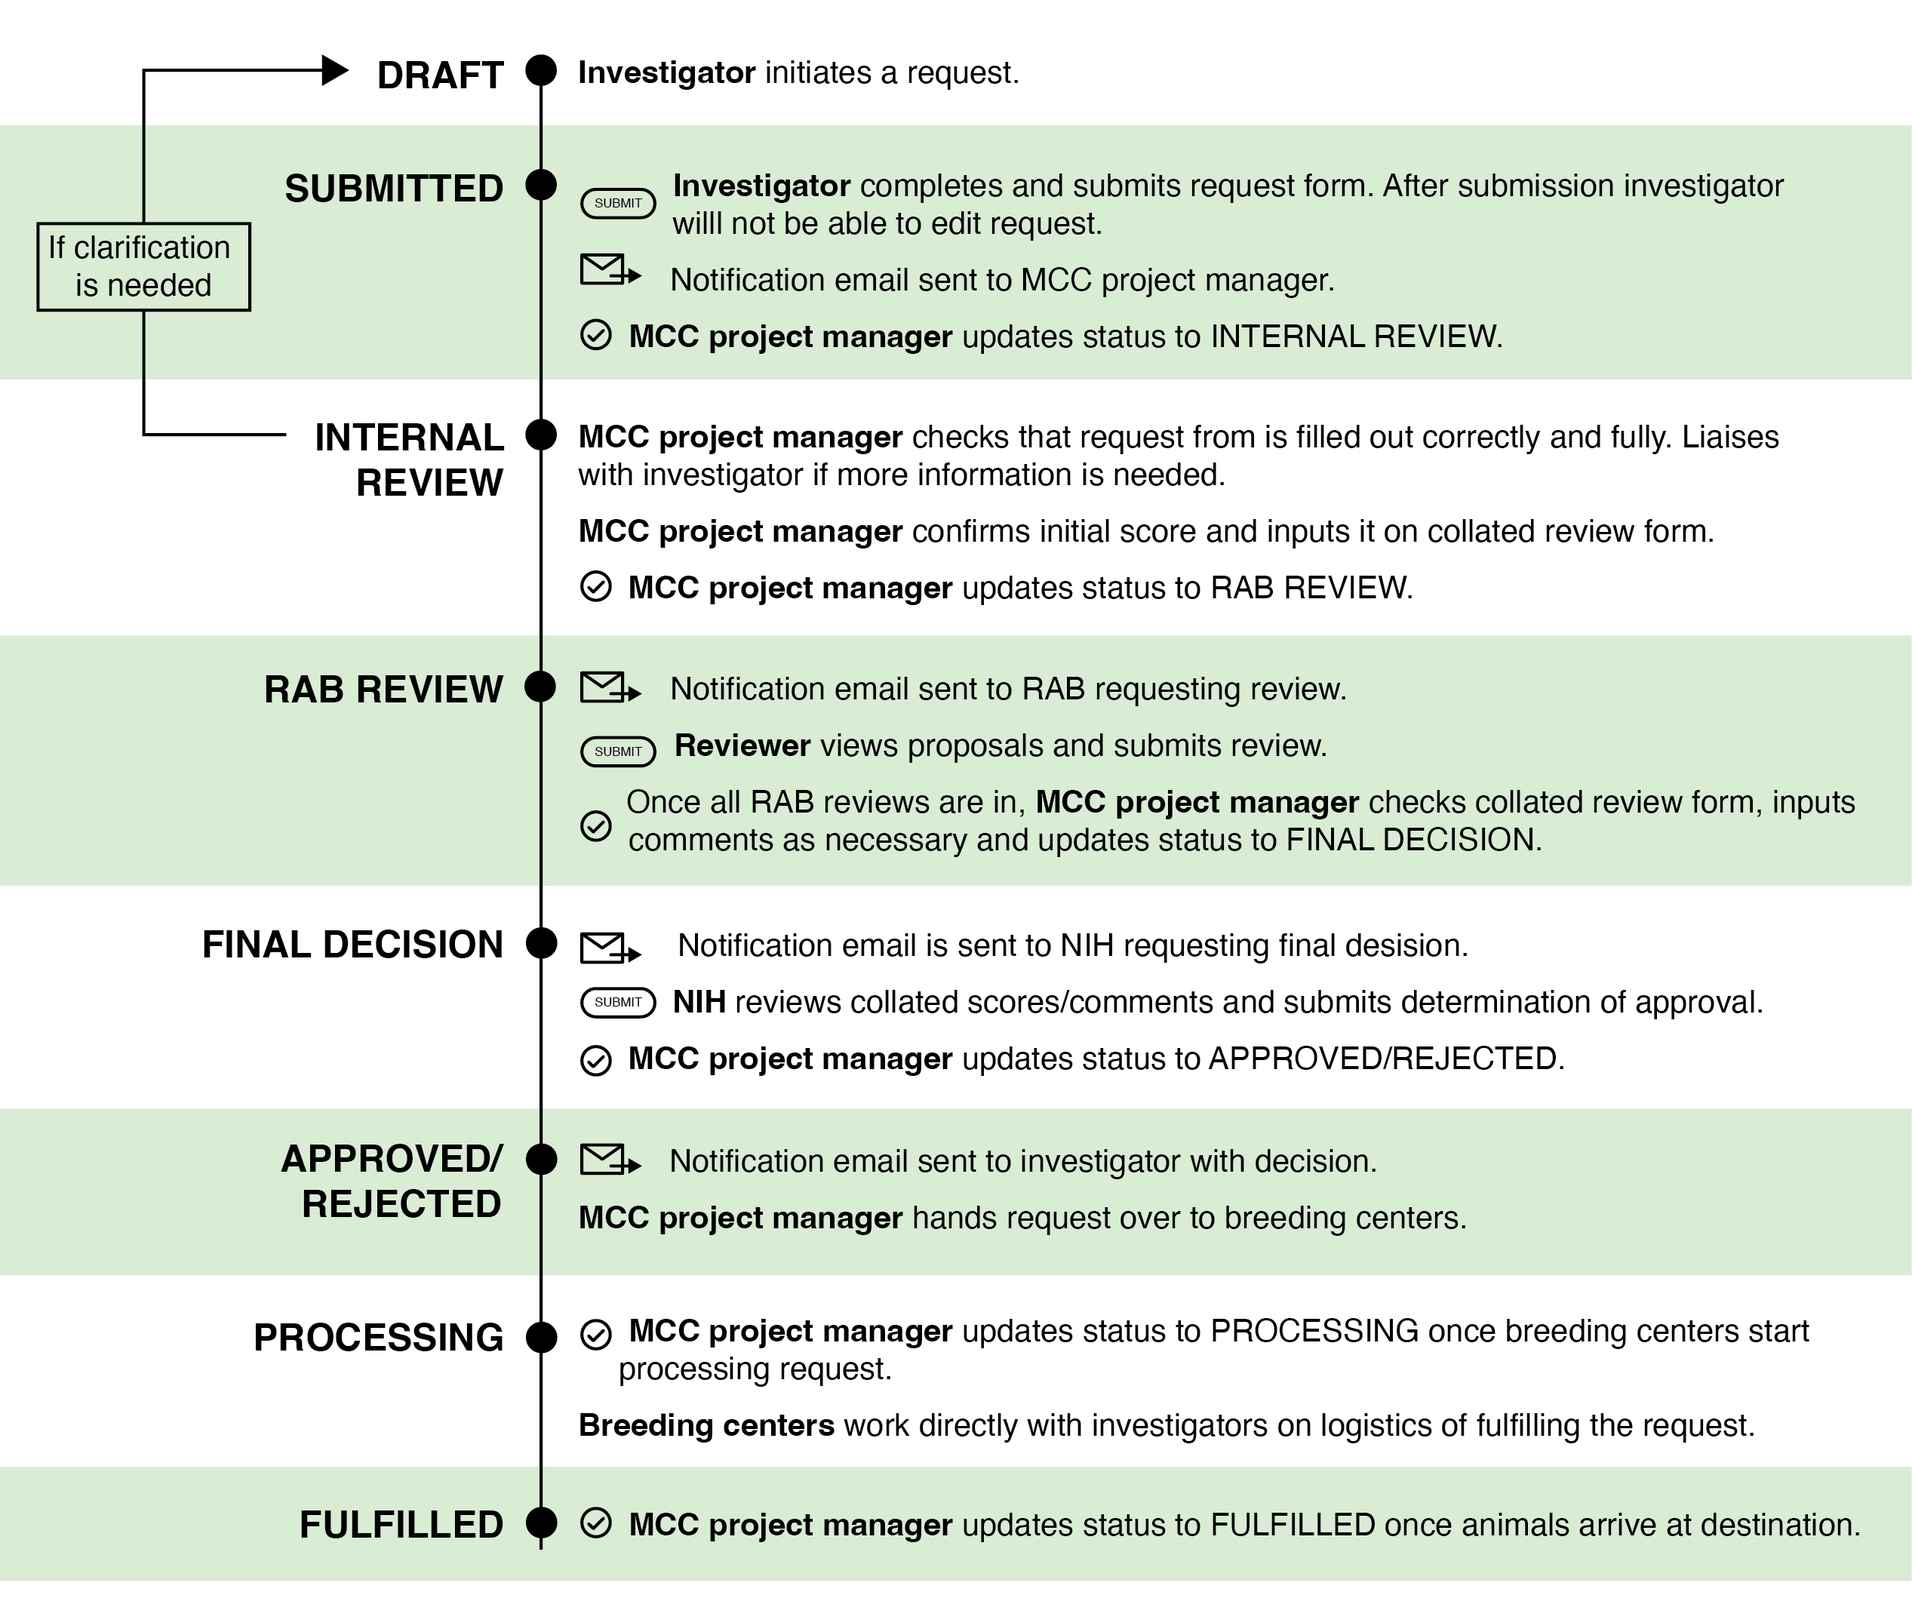
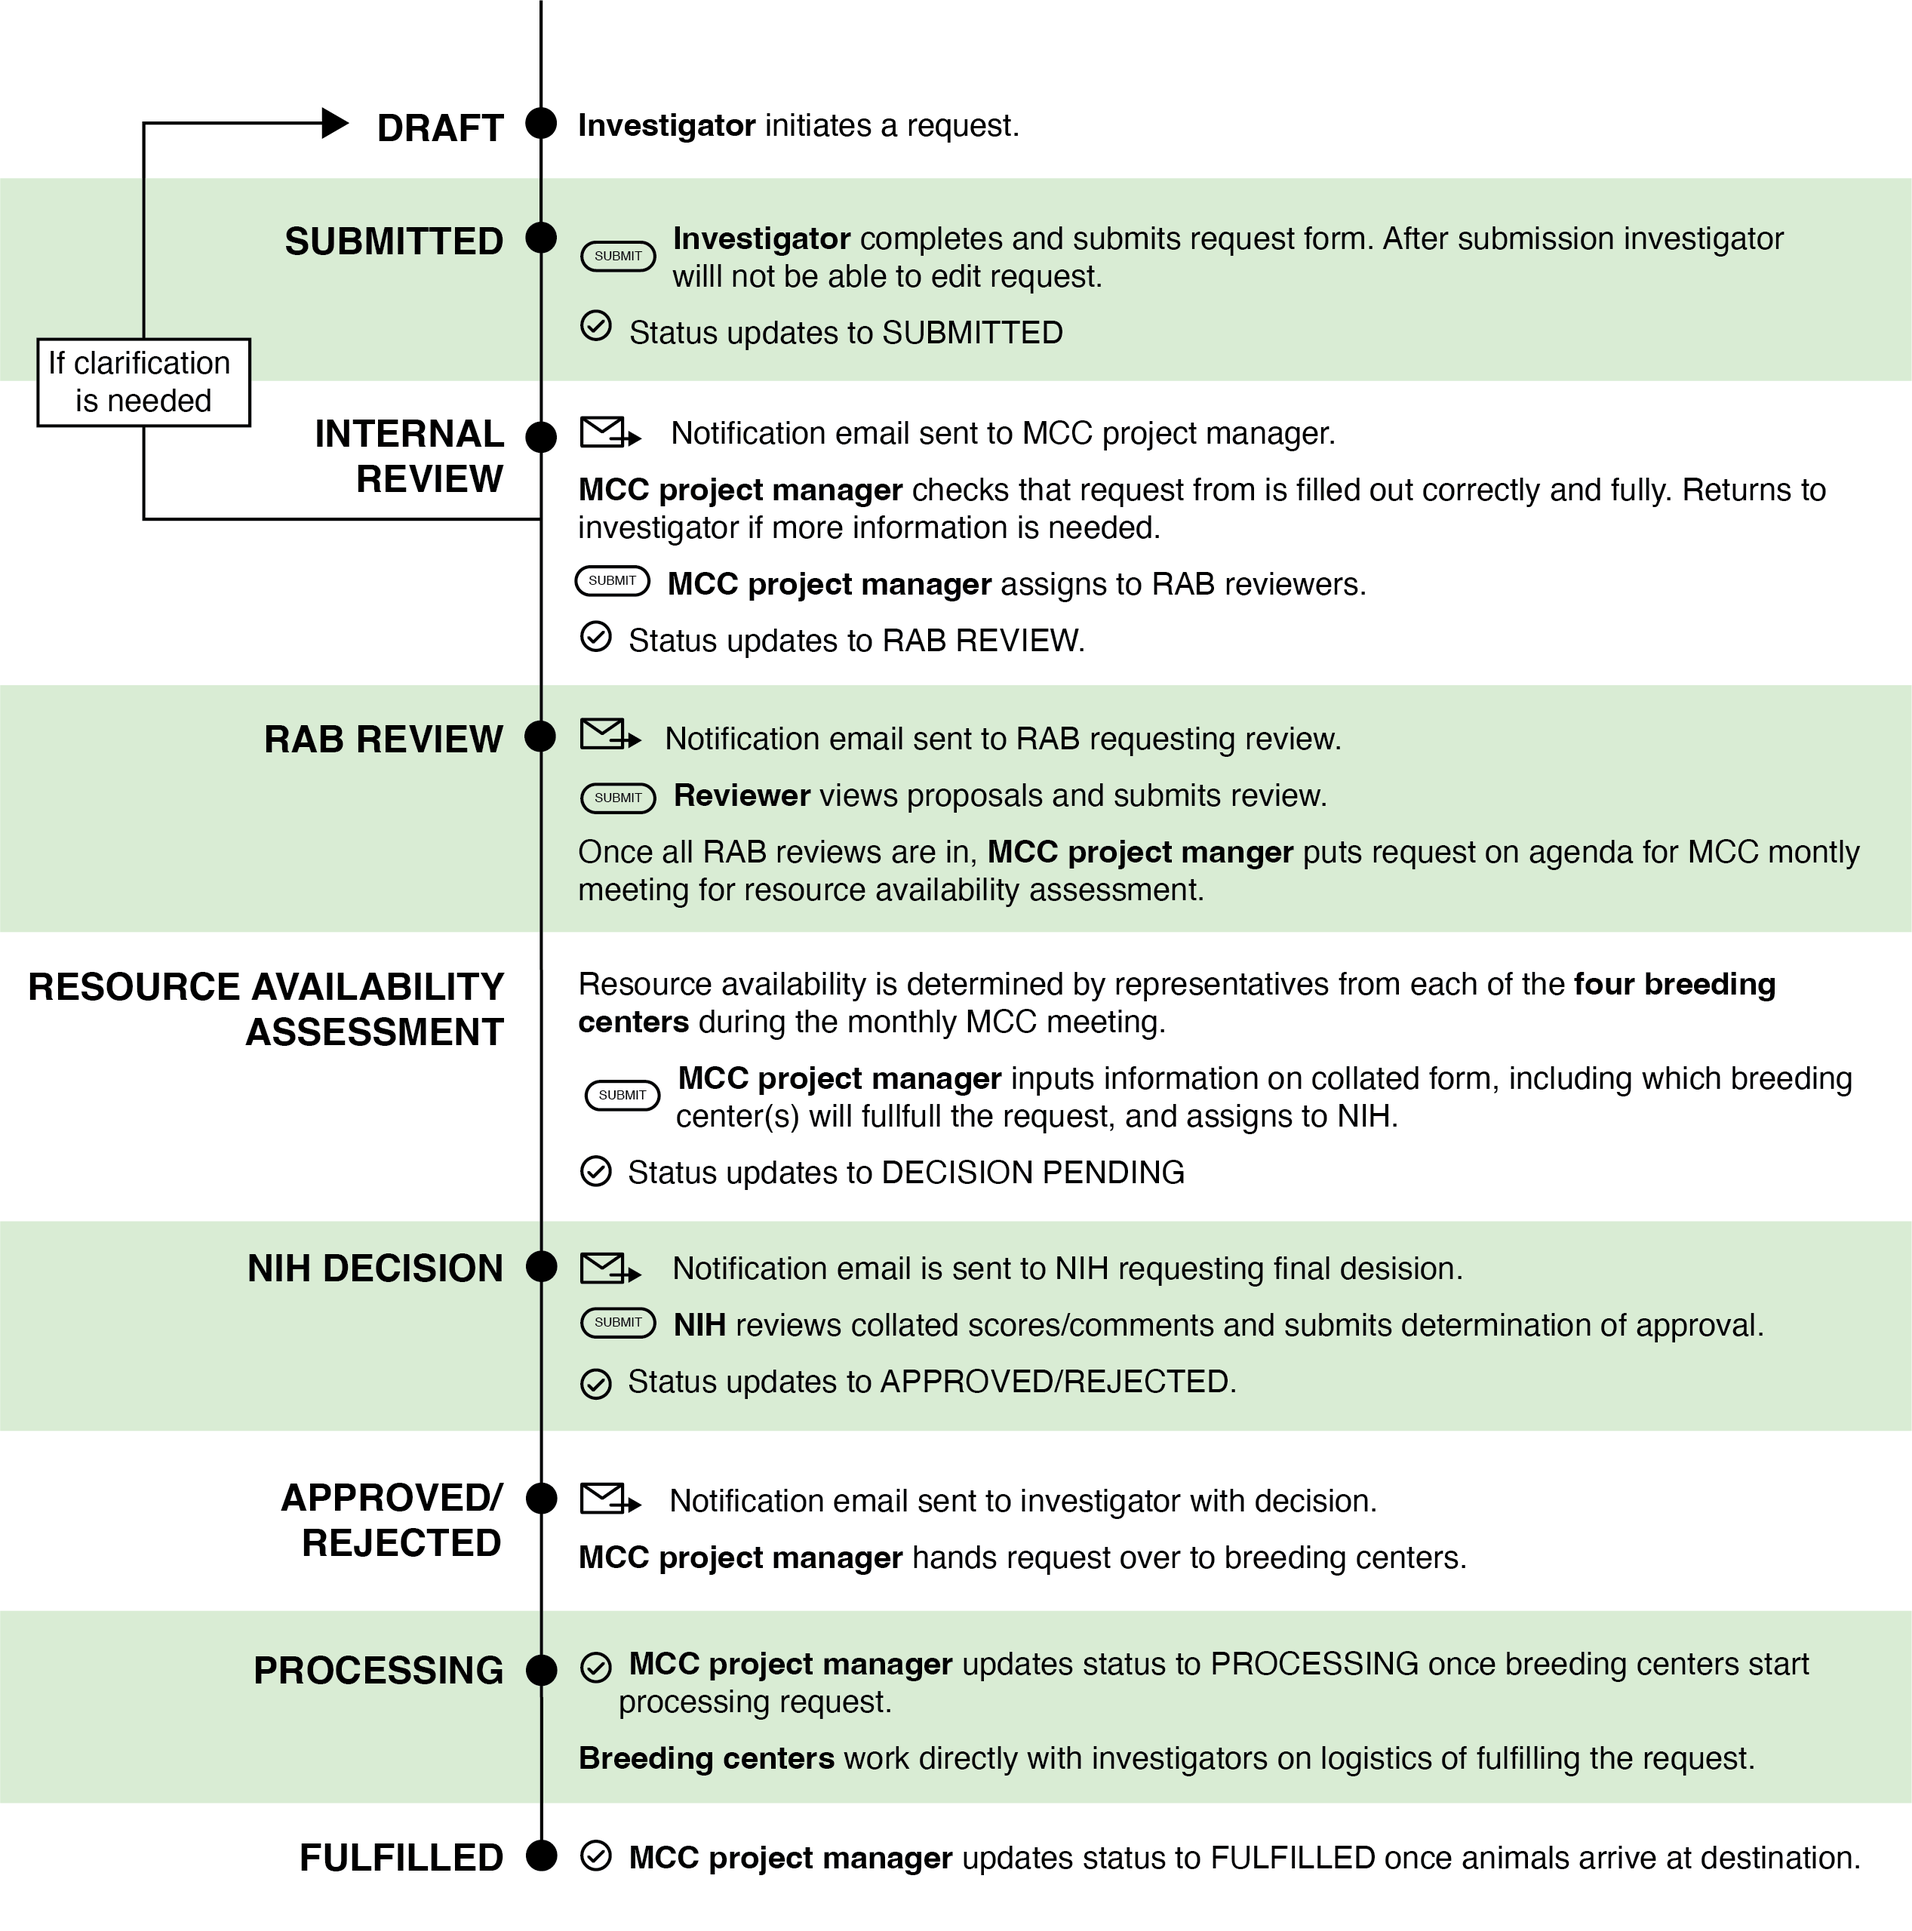
Update MCC request approval process

diff --git a/mcc/src/client/RequestReview/components/ResourceAssessmentForm.tsx b/mcc/src/client/RequestReview/components/ResourceAssessmentForm.tsx
@@ -14,13 +14,11 @@ import {
 import { AnimalRequestModel } from '../../components/RequestUtils';
 import SavingOverlay from '../../AnimalRequest/saving-overlay';
 
-export default function FinalReviewForm(props: {requestData: AnimalRequestModel}) {
+export default function ResourceAssessmentForm(props: {requestData: AnimalRequestModel}) {
     const { requestData } = props
     const [ recordData, setRecordData ] = useState(null)
     const [ reviewData, setReviewData ] = useState(null)
     const [ displayOverlay, setDisplayOverlay ] = useState(false)
-    const [ hasSubmitted, setHasSubmitted ] = useState(false)
-    const [ pendingStatus, setPendingStatus ] = useState<string>(null)
 
     const styles = makeStyles({
         tableHead: {
@@ -44,8 +42,6 @@ export default function FinalReviewForm(props: {requestData: AnimalRequestModel}
                 "rowid",
                 "preliminaryScore",
                 "resourceAvailabilityAssessment",
-                "proposalScore",
-                "comments",
                 "requestid"
             ],
             filterArray: [
@@ -117,7 +113,6 @@ export default function FinalReviewForm(props: {requestData: AnimalRequestModel}
     }
 
     const onFormSubmit = (e: React.SyntheticEvent<HTMLFormElement>) => {
-        setHasSubmitted(true)
         e.preventDefault()
         if (!e.currentTarget.reportValidity()) {
             return
@@ -127,9 +122,12 @@ export default function FinalReviewForm(props: {requestData: AnimalRequestModel}
         Query.updateRows({
             schemaName: "mcc",
             queryName: "requestScores",
-            rows: [recordData],
+            rows: [{
+                rowid: recordData.rowid,
+                resourceAvailabilityAssessment: recordData.resourceAvailabilityAssessment
+            }],
             success: function (resp) {
-                updateRequestStatus(pendingStatus)
+                updateRequestStatus("Decision Pending")
             },
             failure: function (response) {
                 setDisplayOverlay(false)
@@ -164,19 +162,18 @@ export default function FinalReviewForm(props: {requestData: AnimalRequestModel}
         </Table>
         <h2>Enter MCC Review</h2>
         <Box key={"mccReviewBox"} style={{display: 'inline-block'}}>
-            <form key={"internalReviewForm"} noValidate autoComplete='off' onSubmit={onFormSubmit}>
-            <Table width={500}>
+            <form key={"resourceAssessmentForm"} noValidate autoComplete='off' onSubmit={onFormSubmit}>
+            <Table width={800}>
                 <TableBody>
                 <TableRow>
                     <TableCell><TextField key={"preliminaryScore"} name={"preliminaryScore"} label={"Preliminary Score"} onChange={handleChange} variant={'outlined'} value={recordData.preliminaryScore || ''} disabled={true} fullWidth={true}/></TableCell>
                 </TableRow>
                 <TableRow>
-                    <TableCell><TextField key={"comments"} name={"comments"} label={"NIH Comments"} minRows={4} multiline={true} onChange={handleChange} variant={'outlined'} defaultValue={recordData.comments || ''} fullWidth={true} /></TableCell>
+                    <TableCell><TextField key={"resourceAvailabilityAssessment"} name={"resourceAvailabilityAssessment"} label={"Resource Availability Score"} onChange={handleChange} variant={'outlined'} defaultValue={recordData.resourceAvailabilityAssessment || ''} fullWidth={true} /></TableCell>
                 </TableRow>
                 </TableBody>
             </Table>
-            <Button key={"approveBtn"} variant={"contained"} style={{marginRight: 10}} type={'submit'} onClick={() => setPendingStatus("Approved")}>Approve Request</Button>
-            <Button key={"rejectBtn"} variant={"contained"} style={{marginRight: 10}} type={'submit'}  onClick={() => setPendingStatus("Rejected")}>Reject Request</Button>
+            <Button key={"approveBtn"} variant={"contained"} style={{marginRight: 10}} type={'submit'}>Submit</Button>
             </form>
         </Box>
         <SavingOverlay display={displayOverlay} />

diff --git a/mcc/src/client/RequestReview/request-review.tsx b/mcc/src/client/RequestReview/request-review.tsx
@@ -10,6 +10,7 @@ import { createTheme } from '@material-ui/core/styles';
 import '../labkeyOverrides.css';
 import FinalReviewForm from './components/FinalReviewForm';
 import { ErrorBoundary } from '@labkey/components';
+import ResourceAssessmentForm from './components/ResourceAssessmentForm';
 
 export function RequestView() {
     const mode = (new URLSearchParams(window.location.search)).get("mode")
@@ -64,6 +65,12 @@ export function RequestView() {
                 </>
             )
             break
+        case "resourceAvailability":
+            reviewForms = (
+                <>
+                    <ResourceAssessmentForm key={"resourceAssessmentForm"} requestData={requestData}/>
+                </>
+            )
         case "finalReview":
             reviewForms = (
                 <>

diff --git a/mcc/resources/queries/mcc/requestReviews.js b/mcc/resources/queries/mcc/requestReviews.js
@@ -34,9 +34,10 @@ function afterUpsert(row, oldRow, errors) {
             return
         }
 
+        // NOTE: this has been disabled. this code could be a point to add an automated email though
         // Only perform this test the first time the review is added
-        if (!oldRow || !oldRow.review) {
-            triggerHelper.possiblySetRabComplete(requestId);
-        }
+        //if (!oldRow || !oldRow.review) {
+        //    triggerHelper.possiblySetRabComplete(requestId);
+        //}
     }
 }

diff --git a/mcc/src/client/RequestReview/components/InternalReviewForm.tsx b/mcc/src/client/RequestReview/components/InternalReviewForm.tsx
@@ -21,7 +21,7 @@ export default function InternalReviewForm(props: {requestData: AnimalRequestMod
             columns: [
                 "rowid",
                 "preliminaryScore",
-                "resourceAvailabilityScore",
+                "resourceAvailabilityAssessment",
                 "proposalScore",
                 "comments",
                 "requestid",

diff --git a/mcc/src/org/labkey/mcc/query/TriggerHelper.java b/mcc/src/org/labkey/mcc/query/TriggerHelper.java
@@ -226,20 +226,21 @@ public class TriggerHelper
         return new TableSelector(MccSchema.getInstance().getSchema().getTable(MccSchema.TABLE_ANIMAL_REQUESTS), PageFlowUtil.set("objectid"), new SimpleFilter(FieldKey.fromString("rowid"), rowid), null).getObject(String.class);
     }
 
-    public void possiblySetRabComplete(String requestId)
-    {
-        TableInfo ti = MccSchema.getInstance().getSchema().getTable(MccSchema.TABLE_REQUEST_REVIEWS);
-        Set<String> reviews = new HashSet<>(new TableSelector(ti, PageFlowUtil.set("review"), new SimpleFilter(FieldKey.fromString("requestId"), requestId), null).getArrayList(String.class));
-        if (!reviews.isEmpty() && !reviews.contains(null)) {
-            TableInfo requestTable = MccSchema.getInstance().getSchema().getTable(MccSchema.TABLE_ANIMAL_REQUESTS);
-            int rowId = new TableSelector(requestTable, PageFlowUtil.set("rowid"), new SimpleFilter(FieldKey.fromString("objectid"), requestId), null).getObject(Integer.class);
-            Map<String, Object> map = new HashMap<>();
-            map.put("rowid", rowId);
-            map.put("status", MccManager.RequestStatus.PendingDecision.getLabel());
-            map.put("modifiedby", _user.getUserId());
-            map.put("modified", new Date());
-
-            Table.update(_user, requestTable, map, rowId);
-        }
-    }
+    // NOTE: this has been disabled. this code could be a point to add an automated email though
+//    public void possiblySetRabComplete(String requestId)
+//    {
+//        TableInfo ti = MccSchema.getInstance().getSchema().getTable(MccSchema.TABLE_REQUEST_REVIEWS);
+//        Set<String> reviews = new HashSet<>(new TableSelector(ti, PageFlowUtil.set("review"), new SimpleFilter(FieldKey.fromString("requestId"), requestId), null).getArrayList(String.class));
+//        if (!reviews.isEmpty() && !reviews.contains(null)) {
+//            TableInfo requestTable = MccSchema.getInstance().getSchema().getTable(MccSchema.TABLE_ANIMAL_REQUESTS);
+//            int rowId = new TableSelector(requestTable, PageFlowUtil.set("rowid"), new SimpleFilter(FieldKey.fromString("objectid"), requestId), null).getObject(Integer.class);
+//            Map<String, Object> map = new HashMap<>();
+//            map.put("rowid", rowId);
+//            map.put("status", MccManager.RequestStatus.PendingDecision.getLabel());
+//            map.put("modifiedby", _user.getUserId());
+//            map.put("modified", new Date());
+//
+//            Table.update(_user, requestTable, map, rowId);
+//        }
+//    }
 }

diff --git a/mcc/src/org/labkey/mcc/query/RequestScoreActionsDisplayColumnFactory.java b/mcc/src/org/labkey/mcc/query/RequestScoreActionsDisplayColumnFactory.java
@@ -75,16 +75,15 @@ public class RequestScoreActionsDisplayColumnFactory implements DisplayColumnFac
                                 out.write("<br><a class=\"labkey-text-link\" href=\"" + url.getActionURL().addReturnURL(ctx.getViewContext().getActionURL()) + "\">Enter MCC Internal Review</a>");
                             }
                         }
-                        else if (st == MccManager.RequestStatus.FormCheck)
+                        else if (st == MccManager.RequestStatus.RabReview && ctx.get(FieldKey.fromString("pendingRabReviews"), Integer.class) == 0)
                         {
-                            if (requestContainer.hasPermission(ctx.getViewContext().getUser(), MccRequestAdminPermission.class))
+                            if (requestContainer.hasPermission(ctx.getViewContext().getUser(), MccFinalReviewPermission.class))
                             {
-                                out.write("<br><a class=\"labkey-text-link\" href=\"javascript:void(0)\">Submit For RAB Review</a>");
+                                DetailsURL url = DetailsURL.fromString("/mcc/requestReview.view?requestId=" + requestId + "&mode=resourceAvailability", requestContainer);
+                                out.write("<br><a class=\"labkey-text-link\" href=\"" + url.getActionURL().addReturnURL(ctx.getViewContext().getActionURL()) + "\">Enter Resource Availability Assessment</a>");
                             }
                         }
-                        else if (st == MccManager.RequestStatus.PendingDecision ||
-                                (st == MccManager.RequestStatus.RabReview && ctx.get(FieldKey.fromString("pendingRabReviews"), Integer.class) == 0)
-                        )
+                        else if (st == MccManager.RequestStatus.PendingDecision)
                         {
                             if (requestContainer.hasPermission(ctx.getViewContext().getUser(), MccFinalReviewPermission.class))
                             {

diff --git a/mcc/src/org/labkey/mcc/MccManager.java b/mcc/src/org/labkey/mcc/MccManager.java
@@ -48,12 +48,11 @@ public class MccManager
     {
         Draft(1, "Draft", MccRequestorPermission.class),
         Submitted(2, "Submitted", MccRequestorPermission.class),
-        FormCheck(3, "Internal Review", MccRequestAdminPermission.class),
-        RabReview(4, "RAB Review", MccRequestAdminPermission.class),
-        PendingDecision(5, "Pending Decision", MccFinalReviewPermission.class),
-        Approved(6, "Approved", MccRequestAdminPermission.class),
-        Rejected(7, "Rejected", MccRequestAdminPermission.class),
-        Processing(8, "Processing", MccRequestAdminPermission.class),
+        RabReview(3, "RAB Review", MccRequestAdminPermission.class),
+        PendingDecision(4, "Decision Pending", MccFinalReviewPermission.class),
+        Approved(5, "Approved", MccRequestAdminPermission.class),
+        Rejected(6, "Rejected", MccRequestAdminPermission.class),
+        Processing(7, "Processing", MccRequestAdminPermission.class),
         Fulfilled(8, "Fulfilled", MccRequestAdminPermission.class);
 
         int sortOrder;
